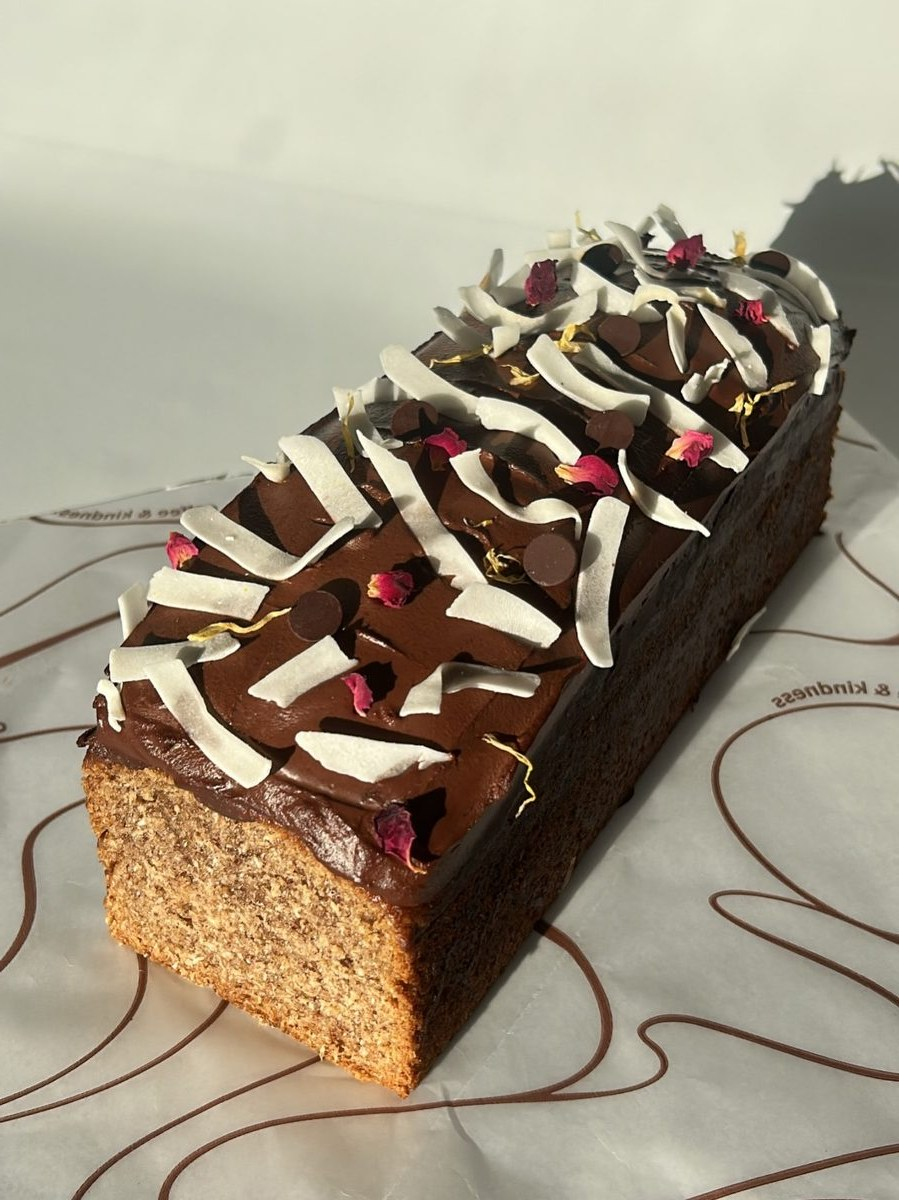
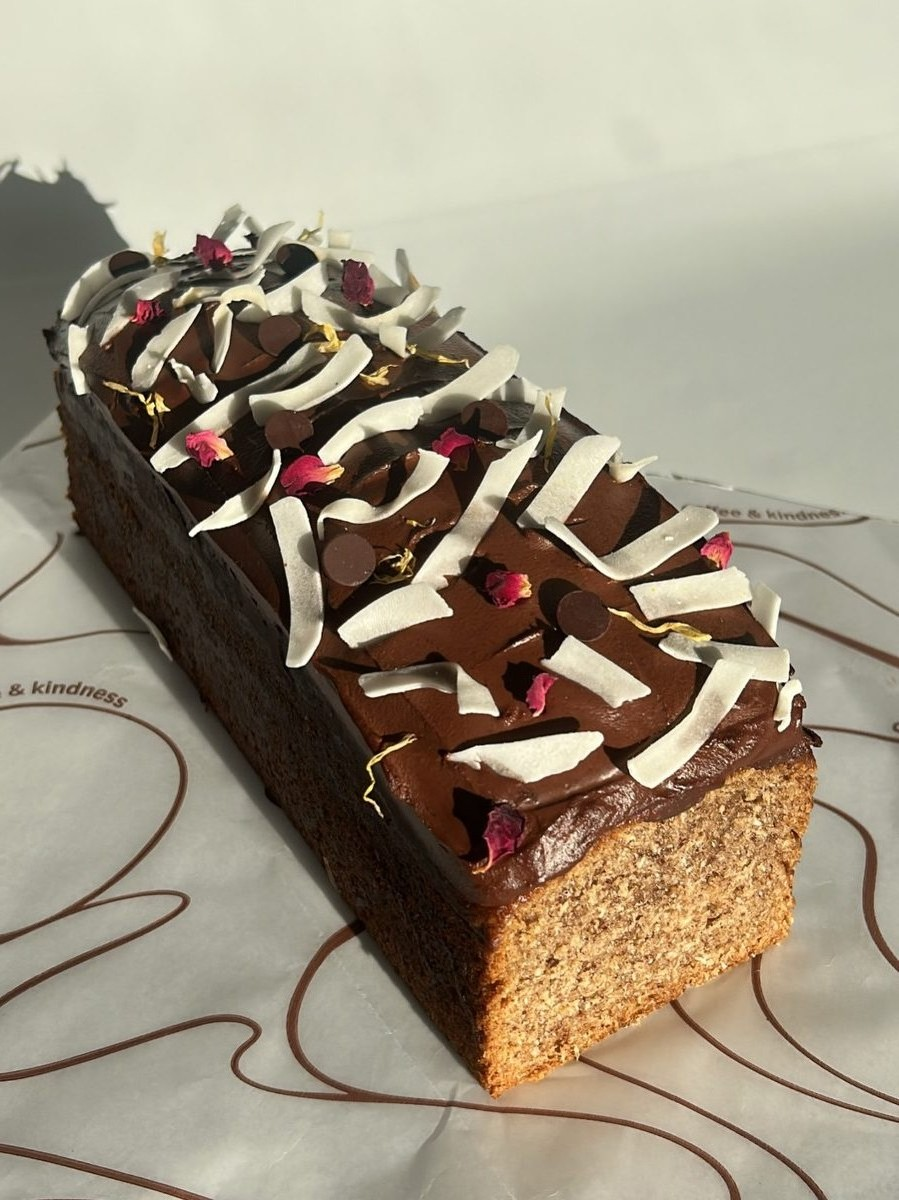
Proveeduría: budín de banana y carrot cake espejados
Claude-Session: https://claude.ai/code/session_01QVPnrtH6zVJsQi4tQ2tQ5w

diff --git a/confirmacion.html b/confirmacion.html
@@ -10,7 +10,7 @@
   <link rel="preconnect" href="https://fonts.googleapis.com">
   <link rel="preconnect" href="https://fonts.gstatic.com" crossorigin>
   <link href="https://fonts.googleapis.com/css2?family=Barlow+Condensed:wght@400;500;600;700&family=Barlow+Semi+Condensed:ital,wght@0,400;0,500;0,600;1,400&family=Yellowtail&display=swap" rel="stylesheet">
-  <link rel="stylesheet" href="css/styles.css?v=20261119j">
+  <link rel="stylesheet" href="css/styles.css?v=20261119k">
 </head>
 <body class="pagina-checkout" data-checkout="confirmacion">
   <a class="saltar" href="#contenido">Saltar al contenido</a>
@@ -42,9 +42,9 @@
     <section class="confirmacion" id="confirmacion" aria-live="polite"></section>
   </main>
 
-  <script src="js/data.js?v=20261119j"></script>
-  <script src="js/main.js?v=20261119j"></script>
-  <script src="js/pedido.js?v=20261119j"></script>
-  <script src="js/checkout.js?v=20261119j"></script>
+  <script src="js/data.js?v=20261119k"></script>
+  <script src="js/main.js?v=20261119k"></script>
+  <script src="js/pedido.js?v=20261119k"></script>
+  <script src="js/checkout.js?v=20261119k"></script>
 </body>
 </html>

diff --git a/carrito.html b/carrito.html
@@ -10,7 +10,7 @@
   <link rel="preconnect" href="https://fonts.googleapis.com">
   <link rel="preconnect" href="https://fonts.gstatic.com" crossorigin>
   <link href="https://fonts.googleapis.com/css2?family=Barlow+Condensed:wght@400;500;600;700&family=Barlow+Semi+Condensed:ital,wght@0,400;0,500;0,600;1,400&family=Yellowtail&display=swap" rel="stylesheet">
-  <link rel="stylesheet" href="css/styles.css?v=20261119j">
+  <link rel="stylesheet" href="css/styles.css?v=20261119k">
 </head>
 <body class="pagina-checkout" data-checkout="carrito">
   <a class="saltar" href="#contenido">Saltar al contenido</a>
@@ -50,9 +50,9 @@
     </div>
   </main>
 
-  <script src="js/data.js?v=20261119j"></script>
-  <script src="js/main.js?v=20261119j"></script>
-  <script src="js/pedido.js?v=20261119j"></script>
-  <script src="js/checkout.js?v=20261119j"></script>
+  <script src="js/data.js?v=20261119k"></script>
+  <script src="js/main.js?v=20261119k"></script>
+  <script src="js/pedido.js?v=20261119k"></script>
+  <script src="js/checkout.js?v=20261119k"></script>
 </body>
 </html>

diff --git a/pago.html b/pago.html
@@ -10,7 +10,7 @@
   <link rel="preconnect" href="https://fonts.googleapis.com">
   <link rel="preconnect" href="https://fonts.gstatic.com" crossorigin>
   <link href="https://fonts.googleapis.com/css2?family=Barlow+Condensed:wght@400;500;600;700&family=Barlow+Semi+Condensed:ital,wght@0,400;0,500;0,600;1,400&family=Yellowtail&display=swap" rel="stylesheet">
-  <link rel="stylesheet" href="css/styles.css?v=20261119j">
+  <link rel="stylesheet" href="css/styles.css?v=20261119k">
 </head>
 <body class="pagina-checkout" data-checkout="pago">
   <a class="saltar" href="#contenido">Saltar al contenido</a>
@@ -85,9 +85,9 @@
     </div>
   </main>
 
-  <script src="js/data.js?v=20261119j"></script>
-  <script src="js/main.js?v=20261119j"></script>
-  <script src="js/pedido.js?v=20261119j"></script>
-  <script src="js/checkout.js?v=20261119j"></script>
+  <script src="js/data.js?v=20261119k"></script>
+  <script src="js/main.js?v=20261119k"></script>
+  <script src="js/pedido.js?v=20261119k"></script>
+  <script src="js/checkout.js?v=20261119k"></script>
 </body>
 </html>

diff --git a/tienda.html b/tienda.html
@@ -9,7 +9,7 @@
   <link rel="preconnect" href="https://fonts.googleapis.com">
   <link rel="preconnect" href="https://fonts.gstatic.com" crossorigin>
   <link href="https://fonts.googleapis.com/css2?family=Barlow+Condensed:wght@400;500;600;700&family=Barlow+Semi+Condensed:ital,wght@0,400;0,500;0,600;1,400&family=Yellowtail&display=swap" rel="stylesheet">
-  <link rel="stylesheet" href="css/styles.css?v=20261119j">
+  <link rel="stylesheet" href="css/styles.css?v=20261119k">
 </head>
 <body class="pagina-tienda">
   <a class="saltar" href="#contenido">Saltar al contenido</a>
@@ -115,9 +115,9 @@
     WhatsApp
   </a>
 
-  <script src="js/data.js?v=20261119j"></script>
-  <script src="js/main.js?v=20261119j"></script>
-  <script src="js/pedido.js?v=20261119j"></script>
-  <script src="js/tienda.js?v=20261119j"></script>
+  <script src="js/data.js?v=20261119k"></script>
+  <script src="js/main.js?v=20261119k"></script>
+  <script src="js/pedido.js?v=20261119k"></script>
+  <script src="js/tienda.js?v=20261119k"></script>
 </body>
 </html>

diff --git a/menu.html b/menu.html
@@ -9,7 +9,7 @@
   <link rel="preconnect" href="https://fonts.googleapis.com">
   <link rel="preconnect" href="https://fonts.gstatic.com" crossorigin>
   <link href="https://fonts.googleapis.com/css2?family=Barlow+Condensed:wght@400;500;600;700&family=Barlow+Semi+Condensed:ital,wght@0,400;0,500;0,600;1,400&family=Yellowtail&display=swap" rel="stylesheet">
-  <link rel="stylesheet" href="css/styles.css?v=20261119j">
+  <link rel="stylesheet" href="css/styles.css?v=20261119k">
 </head>
 <body class="pagina-menu">
   <a class="saltar" href="#contenido">Saltar al contenido</a>
@@ -183,10 +183,10 @@
     WhatsApp
   </a>
 
-  <script src="js/data.js?v=20261119j"></script>
-  <script src="js/main.js?v=20261119j"></script>
-  <script src="js/pedido.js?v=20261119j"></script>
-  <script src="js/menu.js?v=20261119j"></script>
+  <script src="js/data.js?v=20261119k"></script>
+  <script src="js/main.js?v=20261119k"></script>
+  <script src="js/pedido.js?v=20261119k"></script>
+  <script src="js/menu.js?v=20261119k"></script>
 
 </body>
 </html>

diff --git a/index.html b/index.html
@@ -9,7 +9,7 @@
   <link rel="preconnect" href="https://fonts.googleapis.com">
   <link rel="preconnect" href="https://fonts.gstatic.com" crossorigin>
   <link href="https://fonts.googleapis.com/css2?family=Barlow+Condensed:wght@400;500;600;700&family=Barlow+Semi+Condensed:ital,wght@0,400;0,500;0,600;1,400&family=Yellowtail&display=swap" rel="stylesheet">
-  <link rel="stylesheet" href="css/styles.css?v=20261119j">
+  <link rel="stylesheet" href="css/styles.css?v=20261119k">
 </head>
 <body class="home fondo-scroll" data-fondo="crema">
   <a class="saltar" href="#contenido">Saltar al contenido</a>
@@ -229,9 +229,9 @@
     WhatsApp
   </a>
 
-  <script src="js/data.js?v=20261119j"></script>
-  <script src="js/main.js?v=20261119j"></script>
-  <script src="js/pedido.js?v=20261119j"></script>
+  <script src="js/data.js?v=20261119k"></script>
+  <script src="js/main.js?v=20261119k"></script>
+  <script src="js/pedido.js?v=20261119k"></script>
 
 </body>
 </html>

diff --git a/el-lugar.html b/el-lugar.html
@@ -9,7 +9,7 @@
   <link rel="preconnect" href="https://fonts.googleapis.com">
   <link rel="preconnect" href="https://fonts.gstatic.com" crossorigin>
   <link href="https://fonts.googleapis.com/css2?family=Barlow+Condensed:wght@400;500;600;700&family=Barlow+Semi+Condensed:ital,wght@0,400;0,500;0,600;1,400&family=Yellowtail&display=swap" rel="stylesheet">
-  <link rel="stylesheet" href="css/styles.css?v=20261119j">
+  <link rel="stylesheet" href="css/styles.css?v=20261119k">
 </head>
 <body class="fondo-scroll" data-fondo="crema">
   <a class="saltar" href="#contenido">Saltar al contenido</a>
@@ -184,9 +184,9 @@
     WhatsApp
   </a>
 
-  <script src="js/data.js?v=20261119j"></script>
-  <script src="js/main.js?v=20261119j"></script>
-  <script src="js/pedido.js?v=20261119j"></script>
+  <script src="js/data.js?v=20261119k"></script>
+  <script src="js/main.js?v=20261119k"></script>
+  <script src="js/pedido.js?v=20261119k"></script>
 
 </body>
 </html>

diff --git a/contacto.html b/contacto.html
@@ -9,7 +9,7 @@
   <link rel="preconnect" href="https://fonts.googleapis.com">
   <link rel="preconnect" href="https://fonts.gstatic.com" crossorigin>
   <link href="https://fonts.googleapis.com/css2?family=Barlow+Condensed:wght@400;500;600;700&family=Barlow+Semi+Condensed:ital,wght@0,400;0,500;0,600;1,400&family=Yellowtail&display=swap" rel="stylesheet">
-  <link rel="stylesheet" href="css/styles.css?v=20261119j">
+  <link rel="stylesheet" href="css/styles.css?v=20261119k">
 </head>
 <body class="pagina-contacto">
   <a class="saltar" href="#contenido">Saltar al contenido</a>
@@ -131,9 +131,9 @@
     WhatsApp
   </a>
 
-  <script src="js/data.js?v=20261119j"></script>
-  <script src="js/main.js?v=20261119j"></script>
-  <script src="js/pedido.js?v=20261119j"></script>
+  <script src="js/data.js?v=20261119k"></script>
+  <script src="js/main.js?v=20261119k"></script>
+  <script src="js/pedido.js?v=20261119k"></script>
 
 </body>
 </html>

diff --git a/js/data.js b/js/data.js
@@ -225,7 +225,7 @@ function etiquetasDieta(dietas) {
 
 // Foto del ítem o, si todavía no hay, un espacio reservado con su nombre
 // Subí este número cada vez que se reemplace o edite una foto, para que el navegador no muestre la vieja
-const VERSION_FOTOS = 9;
+const VERSION_FOTOS = 10;
 
 function fotoHTML(foto, alt, clase = '', posicion = '', zoom = 1) {
   const reglas = [];
